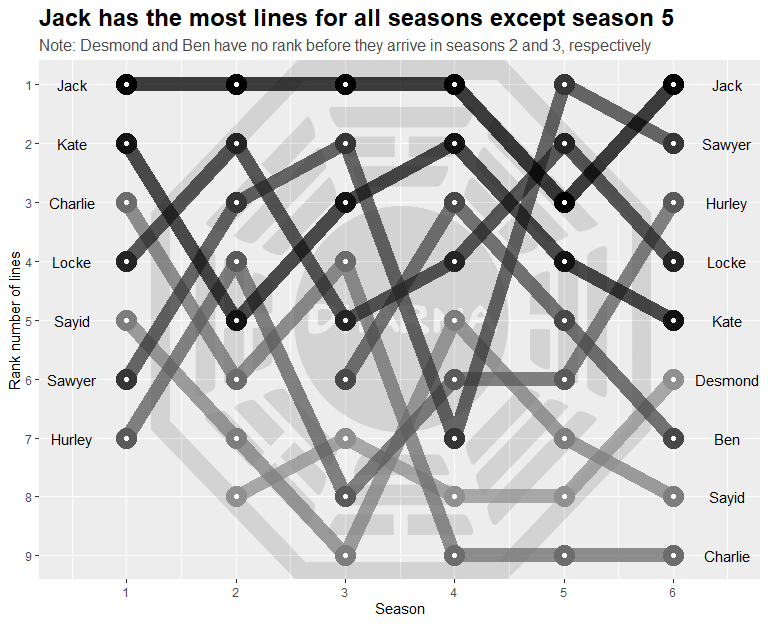
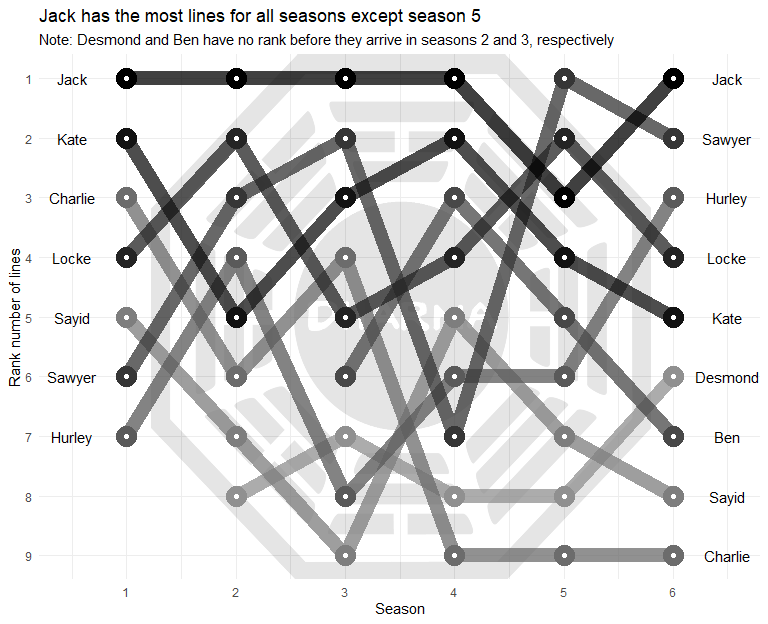
add theme_minimal to third plot

diff --git a/README.md b/README.md
@@ -134,6 +134,7 @@ lost %>%
          subtitle = "Note: Desmond and Ben have no rank before they arrive in seasons 2 and 3, respectively") +
     scale_color_manual(values = c("#909090", "#7e7e7e", "#6c6c6c", "#5a5a5a", 
                                   "#484848", "#363636", "#242424", "#121212", "#000000")) +
+    theme_minimal() +
     theme(legend.position = "none")
 ```
 
